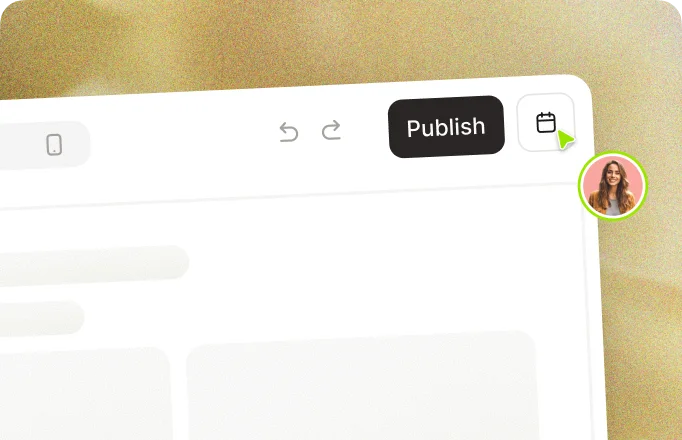
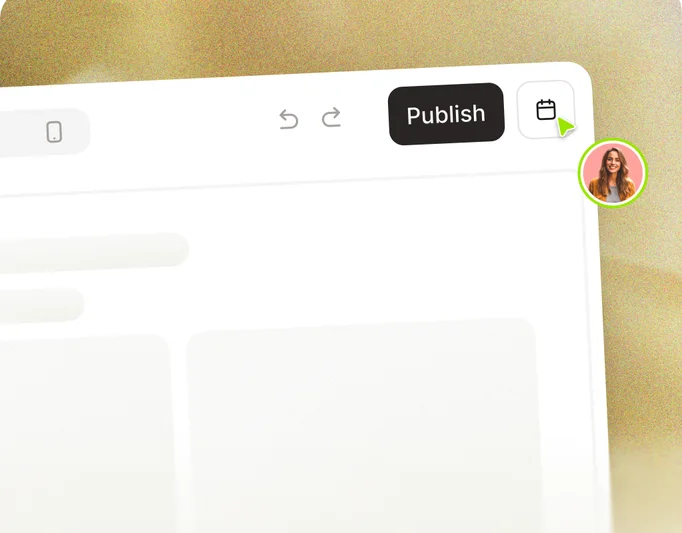
fix(bento): fill Scheduled Publishing card illustration to container height (#261)
* fix(bento): fill Scheduled Publishing card illustration to container height

* chore(release): bump version to 0.7.1

diff --git a/src/components/sections/feature-grid/illustrations.tsx b/src/components/sections/feature-grid/illustrations.tsx
@@ -37,7 +37,7 @@ interface IllustrationProps {
  * Deliberately no `object-fit`: with only a CSS width set, the box's height
  * is derived from the `width`/`height` attributes' ratio via Tailwind
  * preflight's `img { height: auto }` (which overrides the attributes' own
- * presentational `height: 440px` hint with a proportional one) — a load-
+ * presentational `height: 533px` hint with a proportional one) — a load-
  * bearing dependency on that global reset applying to these images. So a
  * future re-export whose real dimensions drift from a stale literal here
  * renders as a visibly stretched image — a bug that is obvious on sight —

diff --git a/src/components/sections/FeatureGrid.tsx b/src/components/sections/FeatureGrid.tsx
@@ -65,7 +65,7 @@ const CARDS = [
 /**
  * The first card is the large one, because `.bento-grid > :nth-child(1)` is
  * what claims the `big` grid area. Only `scheduledPublishing`'s crop
- * (`bento-assets.ts`, 682×440) is exported at the big slot's proportions —
+ * (`bento-assets.ts`, 682×533) is exported at the big slot's proportions —
  * the other six are 192px-tall strip crops. Moving a different card to the
  * front does NOT "just work": its crop upscales into the large slot at the
  * wrong aspect ratio, and its actual big-card artwork needs a fresh

diff --git a/src/components/sections/feature-grid/bento-assets.ts b/src/components/sections/feature-grid/bento-assets.ts
@@ -23,7 +23,7 @@ export const BENTO_ASSETS = {
   scheduledPublishing: {
     file: 'scheduled-publishing.webp',
     width: 682,
-    height: 440,
+    height: 533,
     node: '40002427:17071',
   },
   branch: { file: 'git-branch.webp', width: 682, height: 192, node: '40002427:16815' },
